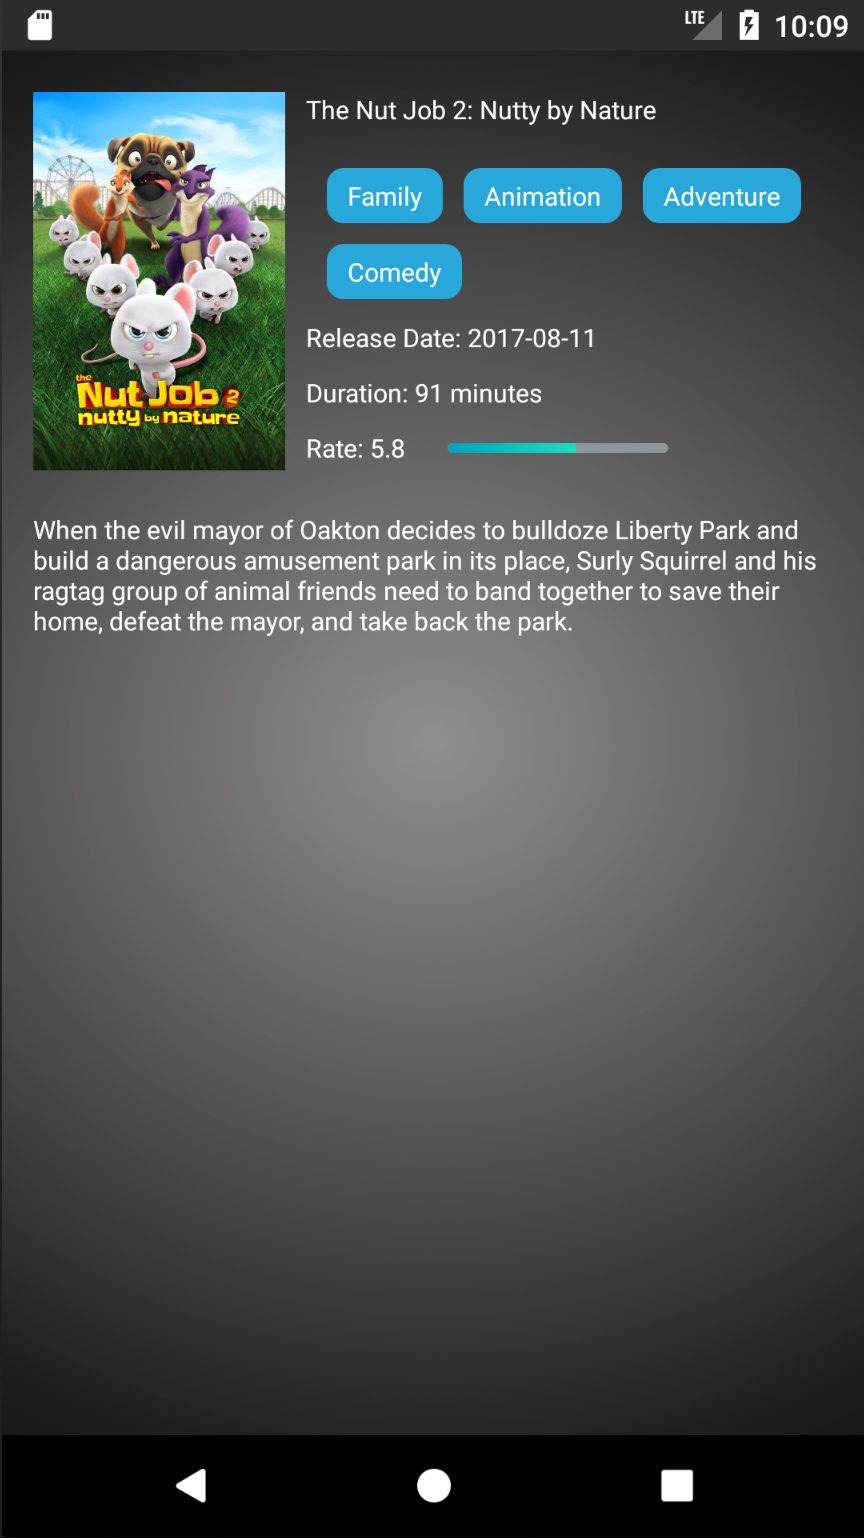
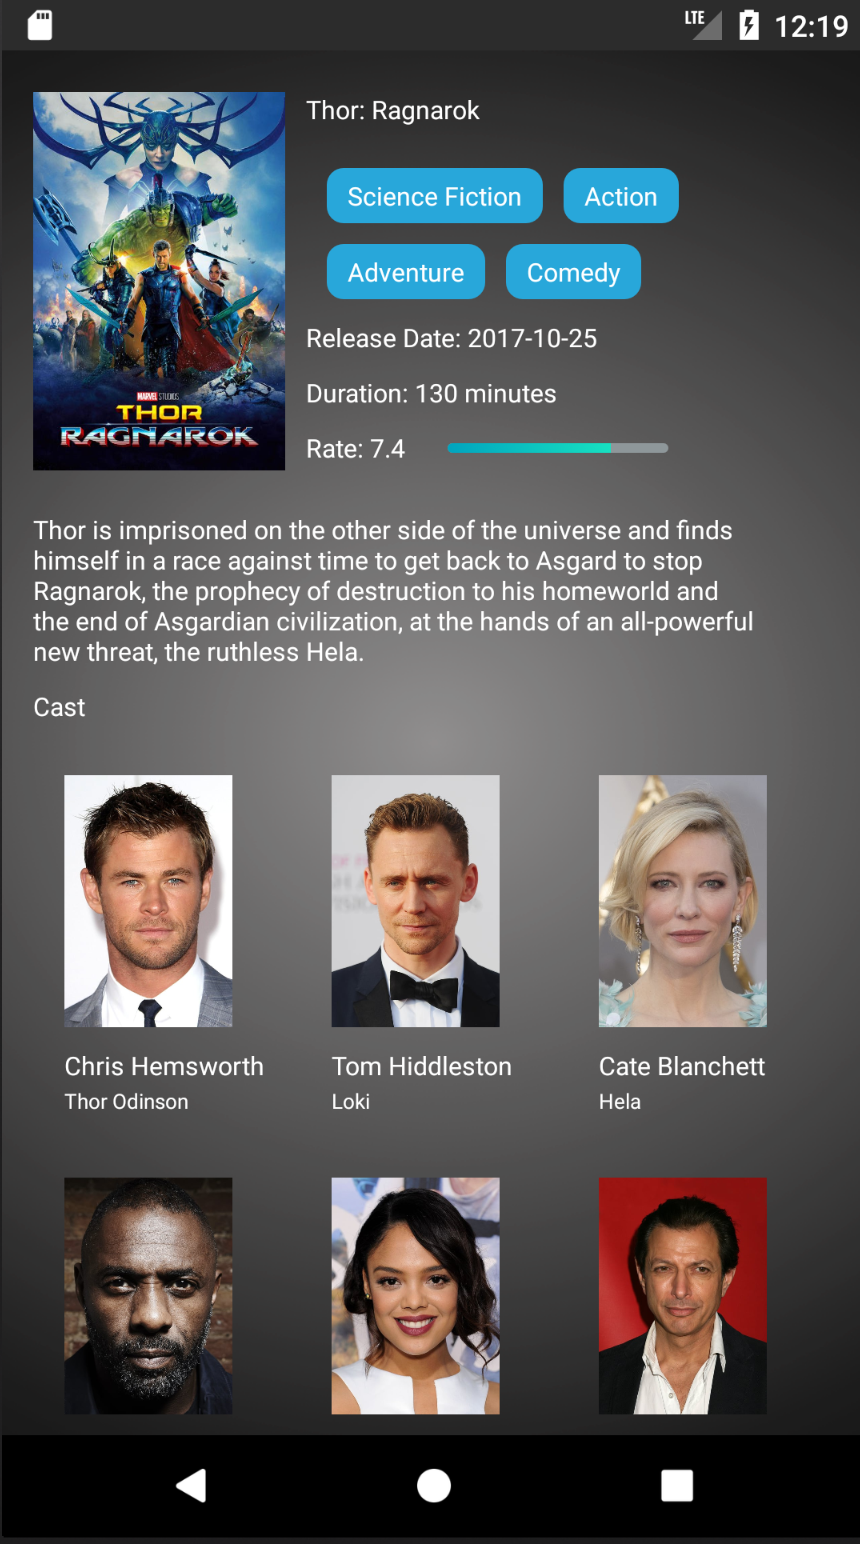
add cast info

diff --git a/app/src/main/java/evahsu/simplemovieapi/ui/MovieDetailActivity.java b/app/src/main/java/evahsu/simplemovieapi/ui/MovieDetailActivity.java
@@ -2,7 +2,11 @@ package evahsu.simplemovieapi.ui;
 
 import android.support.v7.app.AppCompatActivity;
 import android.os.Bundle;
+import android.support.v7.widget.DefaultItemAnimator;
+import android.support.v7.widget.GridLayoutManager;
+import android.support.v7.widget.LinearLayoutManager;
 import android.support.v7.widget.RecyclerView;
+import android.view.View;
 import android.widget.ImageView;
 import android.widget.TextView;
 
@@ -15,6 +19,7 @@ import butterknife.BindView;
 import butterknife.ButterKnife;
 import evahsu.simplemovieapi.R;
 import evahsu.simplemovieapi.debug.LogHelper;
+import evahsu.simplemovieapi.intf.ObjectKeyRecyclerViewListener;
 import evahsu.simplemovieapi.uicomponent.flowtag.FlowTagLayout;
 import evahsu.simplemovieapi.uicomponent.flowtag.OnTagSelectListener;
 import evahsu.simplemovieapi.util.Constants;
@@ -23,8 +28,10 @@ import evahsu.simplemovieapi.util.WebUtil;
 import evahsu.simplemovieapi.web.ObserverOnNextListener;
 import evahsu.simplemovieapi.web.ProgressObserver;
 import evahsu.simplemovieapi.web.RequestInterface;
+import evahsu.simplemovieapi.web.movie.Cast;
 import evahsu.simplemovieapi.web.movie.MovieDetailResponse;
 import evahsu.simplemovieapi.web.movie.MovieDiscoverResponse;
+import evahsu.simplemovieapi.web.movie.Result;
 import io.reactivex.android.schedulers.AndroidSchedulers;
 import io.reactivex.schedulers.Schedulers;
 import retrofit2.Retrofit;
@@ -39,16 +46,21 @@ public class MovieDetailActivity extends AppCompatActivity {
     @BindView(R.id.movie_detail_runtime) TextView tvRunTime;
     @BindView(R.id.movie_detail_vote_average) TextView tvRate;
     @BindView(R.id.movie_detail_overview) TextView tvOverView;
+    @BindView(R.id.movie_detail_cast_label) TextView tvCastLabel;
     @BindView(R.id.state_block1_oil_green_line) ImageView ivRateLine;
+    @BindView(R.id.movie_detail_cast_list) RecyclerView rcCastList;
     private TagAdapter tagAdapter;
+    private CastAdapter castAdapter;
     private GetMovieDetailObserverListener getMovieDetailObserverListener = new GetMovieDetailObserverListener();
+    private InnerObjectKeyRecyclerViewListener innerObjectKeyRecyclerViewListener = new InnerObjectKeyRecyclerViewListener();
 //    @BindView(R.id.movie_detail_runtime) ImageView ivPoster;
     @Override
     protected void onCreate(Bundle savedInstanceState) {
         super.onCreate(savedInstanceState);
         setContentView(R.layout.activity_movie_detail);
         ButterKnife.bind(this);
-        initFlowTagLayout();
+        initFlowTagLayout();//genres
+        initRecyclerView();//cast
         if(getIntent() != null && getIntent().getExtras() != null){
             getMovieDetail(getIntent().getExtras().getInt(Constants.EXTRA_MOVID_ID));
         }
@@ -58,12 +70,23 @@ public class MovieDetailActivity extends AppCompatActivity {
 
         flowTagGenres.setTagCheckedMode(FlowTagLayout.FLOW_TAG_CHECKED_NONE);
         flowTagGenres.setAdapter(tagAdapter);
-        flowTagGenres.setOnTagSelectListener(new OnTagSelectListener() {
-            @Override
-            public void onItemSelect(FlowTagLayout parent, List<Integer> selectedList) {
+//        flowTagGenres.setOnTagSelectListener(new OnTagSelectListener() {
+//            @Override
+//            public void onItemSelect(FlowTagLayout parent, List<Integer> selectedList) {
+//
+//            }
+//        });
+    }
 
-            }
-        });
+    private void initRecyclerView(){
+        castAdapter = new CastAdapter(getApplicationContext());
+        castAdapter.setRecyclerViewListener(innerObjectKeyRecyclerViewListener);
+        GridLayoutManager gridLayoutManager = new GridLayoutManager(getApplicationContext(), 3, GridLayoutManager.VERTICAL, false);
+        rcCastList.setLayoutManager(gridLayoutManager);
+        rcCastList.setItemAnimator(new DefaultItemAnimator());
+        rcCastList.setHasFixedSize(true);
+        rcCastList.setLayoutManager(gridLayoutManager);
+        rcCastList.setAdapter(castAdapter);
     }
 
     private void getMovieDetail(int id){
@@ -114,6 +137,14 @@ public class MovieDetailActivity extends AppCompatActivity {
                 ivRateLine.getLayoutParams().width = (int)(px * resp.getVote_average() / 10);
                 tagAdapter.onlyAddAll(resp.getGenres());
                 tagAdapter.notifyDataSetChanged();
+                if(resp.getCredits().cast.isEmpty()){
+                    tvCastLabel.setText("");
+                    castAdapter.clearData();
+                }else{
+                    tvCastLabel.setText(R.string.cast);
+                    castAdapter.setData(resp.getCredits().getCast());
+                }
+                castAdapter.notifyDataSetChanged();
 
             }catch (Exception e){
                 Util.showShortToast(getBaseContext(),R.string.system_is_busy);
@@ -128,5 +159,18 @@ public class MovieDetailActivity extends AppCompatActivity {
         }
 
 
+    }
+    class InnerObjectKeyRecyclerViewListener implements ObjectKeyRecyclerViewListener {
+
+        @Override
+        public void onItemClick(int key, Object bean) {
+        }
+
+        @Override
+        public boolean onItemLongClick(int key, Object bean) {
+//            DialogHandler.showAlertDialog(getActivity(),simpleListItem.getContent(),null);
+//            LuxgenUtils.showShortToast(getContext(),String.format("%s long clicked",simpleListItem.getTitle()));
+            return true;
+        }
     }
 }

diff --git a/app/src/main/java/evahsu/simplemovieapi/ui/CastAdapter.java b/app/src/main/java/evahsu/simplemovieapi/ui/CastAdapter.java
@@ -1,0 +1,116 @@
+package evahsu.simplemovieapi.ui;
+
+import android.content.Context;
+import android.support.v7.widget.RecyclerView;
+import android.view.LayoutInflater;
+import android.view.View;
+import android.view.ViewGroup;
+import android.widget.ImageView;
+import android.widget.RelativeLayout;
+import android.widget.TextView;
+
+import com.squareup.picasso.Picasso;
+
+import java.util.ArrayList;
+
+import evahsu.simplemovieapi.R;
+import evahsu.simplemovieapi.intf.ObjectKeyRecyclerViewListener;
+import evahsu.simplemovieapi.util.Constants;
+import evahsu.simplemovieapi.web.movie.Cast;
+
+/**
+ * Created by evahsu on 2017/12/24.
+ */
+
+public class CastAdapter extends RecyclerView.Adapter {
+    private ObjectKeyRecyclerViewListener recyclerViewListener;
+    public final String TAG = this.getClass().getSimpleName();
+    private ArrayList<Cast> list = new ArrayList<>();
+    private Context context;
+//    public MovieAdapter(ArrayList<Result> list) {
+//        this.list = list;
+//    }
+
+    public CastAdapter(Context context) {
+        this.context = context;
+    }
+
+    public void clearData(){
+        list.clear();
+    }
+
+    public void setData(ArrayList<Cast> list) {
+        if(list == null){
+            return;
+        }
+        this.list = list;
+    }
+    public void setRecyclerViewListener(ObjectKeyRecyclerViewListener recyclerViewListener) {
+        this.recyclerViewListener = recyclerViewListener;
+    }
+    @Override
+    public RecyclerView.ViewHolder onCreateViewHolder(ViewGroup parent, int viewType) {
+        RelativeLayout.LayoutParams lp = new RelativeLayout.LayoutParams(ViewGroup.LayoutParams.MATCH_PARENT, ViewGroup.LayoutParams.WRAP_CONTENT);
+        View view = LayoutInflater.from(parent.getContext()).inflate(R.layout.listitem_cast, null);
+        view.setLayoutParams(lp);
+        return new ReadViewHolder(view);
+    }
+
+    @Override
+    public void onBindViewHolder(RecyclerView.ViewHolder holder, int position) {
+        ReadViewHolder readViewHolder = (ReadViewHolder) holder;
+        readViewHolder.position = position;
+        Cast listItem = list.get(position);
+//        if(simpleListItem == null){
+//            return;
+//        }
+        readViewHolder.position = position;
+        readViewHolder.nameText.setText(listItem.getName());
+        readViewHolder.characterText.setText(listItem.getCharacter());
+        Picasso.with(context)
+                .load(String.format("%s%s", Constants.URL_POSTER_BASE,listItem.getProfile_path()))
+                .placeholder(R.drawable.empty_icon)
+                .error(R.drawable.btn_no_entry)
+                .into(readViewHolder.profileImageView);
+//        readViewHolder.stateIcon.setImageResource(listItem.getStatIconId());
+    }
+    @Override
+    public int getItemCount() {
+        return list.size();
+    }
+
+    class ReadViewHolder extends RecyclerView.ViewHolder implements View.OnClickListener, View.OnLongClickListener{
+        public View rootView;
+        public TextView nameText;
+        public TextView characterText;
+        public ImageView profileImageView;
+        public int position;
+        public ReadViewHolder(View itemView) {//read mode
+            super(itemView);
+            nameText = itemView.findViewById(R.id.cast_list_name);
+            characterText = itemView.findViewById(R.id.cast_list_character);
+            profileImageView = itemView.findViewById(R.id.cast_list_img);
+            rootView = itemView.findViewById(R.id.listitem_cast_rootview);
+            rootView.setOnClickListener(this);
+            rootView.setOnLongClickListener(this);
+        }
+
+        @Override
+        public void onClick(View v) {
+            if (null != recyclerViewListener) {
+                Cast listItem = list.get(position);
+                recyclerViewListener.onItemClick(position,listItem);
+            }
+        }
+
+        @Override
+
+        public boolean onLongClick(View v) {
+            if(null != recyclerViewListener){
+                Cast listItem = list.get(position);
+                return recyclerViewListener.onItemLongClick(position,listItem);
+            }
+            return false;
+        }
+    }
+}

diff --git a/app/src/main/java/evahsu/simplemovieapi/web/movie/Cast.java b/app/src/main/java/evahsu/simplemovieapi/web/movie/Cast.java
@@ -13,4 +13,68 @@ public class Cast {
     public String name;
     public int order;
     public String profile_path;
+
+    public int getCast_id() {
+        return cast_id;
+    }
+
+    public void setCast_id(int cast_id) {
+        this.cast_id = cast_id;
+    }
+
+    public String getCharacter() {
+        return character;
+    }
+
+    public void setCharacter(String character) {
+        this.character = character;
+    }
+
+    public String getCredit_id() {
+        return credit_id;
+    }
+
+    public void setCredit_id(String credit_id) {
+        this.credit_id = credit_id;
+    }
+
+    public int getGender() {
+        return gender;
+    }
+
+    public void setGender(int gender) {
+        this.gender = gender;
+    }
+
+    public int getId() {
+        return id;
+    }
+
+    public void setId(int id) {
+        this.id = id;
+    }
+
+    public String getName() {
+        return name;
+    }
+
+    public void setName(String name) {
+        this.name = name;
+    }
+
+    public int getOrder() {
+        return order;
+    }
+
+    public void setOrder(int order) {
+        this.order = order;
+    }
+
+    public String getProfile_path() {
+        return profile_path;
+    }
+
+    public void setProfile_path(String profile_path) {
+        this.profile_path = profile_path;
+    }
 }

diff --git a/app/src/main/java/evahsu/simplemovieapi/web/movie/Credits.java b/app/src/main/java/evahsu/simplemovieapi/web/movie/Credits.java
@@ -1,5 +1,6 @@
 package evahsu.simplemovieapi.web.movie;
 
+import java.util.ArrayList;
 import java.util.List;
 
 /**
@@ -7,6 +8,22 @@ import java.util.List;
  */
 
 public class Credits {
-    public List<Cast> cast = null;
-    public List<Crew> crew = null;
+    public ArrayList<Cast> cast = null;
+    public ArrayList<Crew> crew = null;
+
+    public ArrayList<Cast> getCast() {
+        return cast;
+    }
+
+    public void setCast(ArrayList<Cast> cast) {
+        this.cast = cast;
+    }
+
+    public ArrayList<Crew> getCrew() {
+        return crew;
+    }
+
+    public void setCrew(ArrayList<Crew> crew) {
+        this.crew = crew;
+    }
 }

diff --git a/README.md b/README.md
@@ -1,4 +1,4 @@
 # simple_tmdb
 a simple app which using tmdb API
-![Preview1 List](https://github.com/evahsu1105/simple_tmdb/blob/master/screenshot_movie_list.png)
-![Preview2](https://github.com/evahsu1105/simple_tmdb/blob/master/screen_movie_detail.png)
+![Preview1 List](https://github.com/evahsu1105/simple_tmdb/blob/master/screenshot_movie_list.png|width=250)
+![Preview2](https://github.com/evahsu1105/simple_tmdb/blob/master/screen_movie_detail.png|width=250)
